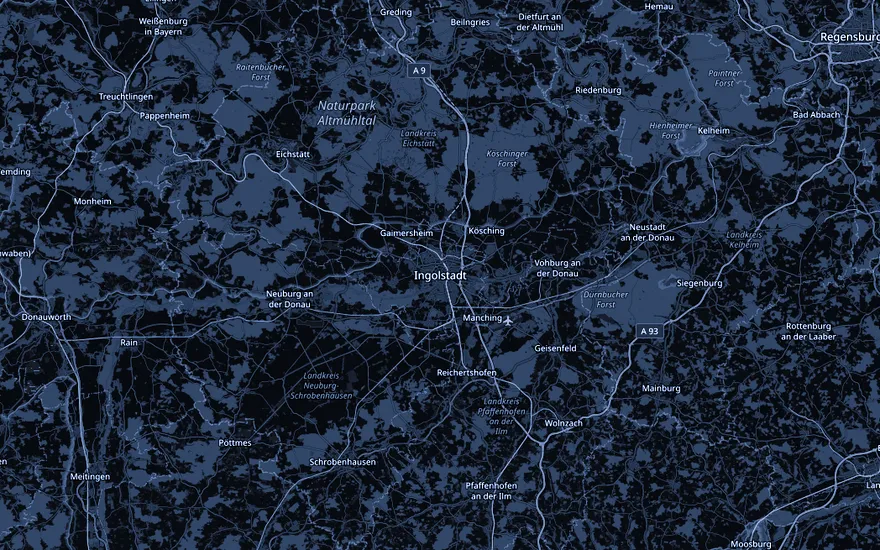
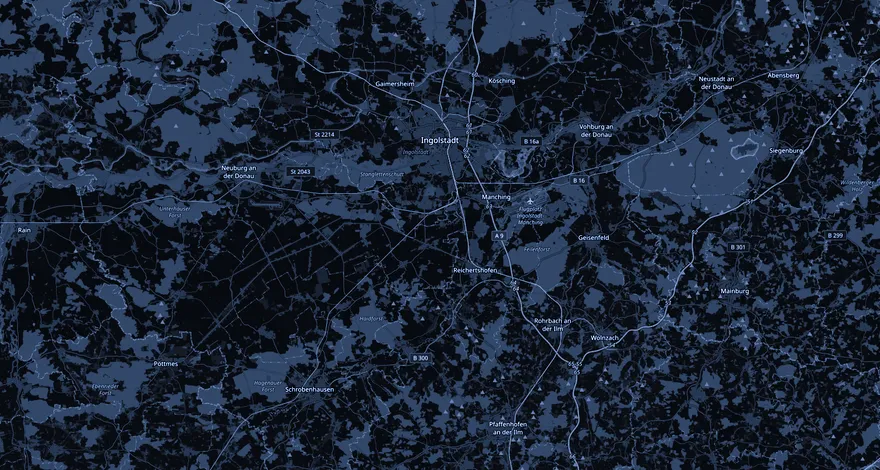
Karte enger gezoomt, Handy-Ansicht nachgezogen
Karte
- Bildmitte liegt nicht mehr auf Ingolstadt, sondern zwischen dem
  noerdlichsten und dem suedlichsten Ort. Auf Ingolstadt zentriert
  blieb oben leeres Land stehen, waehrend Pfaffenhofen unten
  herausfiel.
- Massstab von 120 auf 90 Meter je Bildpunkt, Kacheln eine Zoomstufe
  feiner. Zusammen etwa ein Drittel naeher dran, und die Zeichnung
  bleibt auf Displays mit doppelter Pixeldichte scharf.
- Die Orte tragen jetzt eine eigene Beschriftung. Die Namen der
  Kacheln sind bei dieser Anzeigegroesse zu klein zum Lesen.
- Bildhoehe von 550 auf 470, Ringe und Ortsliste unter der Karte sind
  entfallen. Die Kachel ist damit 113 px flacher, das Portrait
  darueber waechst von 189 auf 301 px. Beide Spalten enden weiterhin
  auf derselben Linie.

Handy
- Hero: Der Ausschnitt wird vom rechten Bildrand her genommen. Mittig
  beschnitten war nur das Heck des Fahrzeugs zu sehen, eingedrueckte
  Front und Warndreieck fielen heraus.
- Ueber mich: Text steht vor den Bildern, auch im Markup. Damit stimmt
  die Lesereihenfolge fuer Auge und Vorlesewerkzeug ueberein. Ab der
  zweispaltigen Ansicht rueckt die Bildspalte wieder nach links.
- FAQ: Die Kachel mit WhatsApp und Rufnummer entfaellt auf schmalen
  Displays. Dort stand sie unmittelbar vor dem Kontaktbereich, der
  dieselben beiden Schaltflaechen noch einmal zeigt.

Lighthouse Desktop 100/100/100/100, Mobil 95/100/100/100, LCP 2,7 s.

Claude-Session: https://claude.ai/code/session_013AG4ywUM6t3TjauUzabBkA

diff --git a/src/data/site.ts b/src/data/site.ts
@@ -43,6 +43,8 @@ export interface Place {
   readonly name: string;
   readonly lat: number;
   readonly lon: number;
+  /** Kurzform fuer die Karte, wo lange Namen ueber den Rand laufen. */
+  readonly short?: string;
 }
 
 /* ------------------------------------------------------------------
@@ -77,13 +79,15 @@ export const company = {
   city: 'Ingolstadt' as string | null,
   region: 'Ingolstadt und Umgebung' as string | null,
   radiusKm: 50,
+  /** Standort auf der Karte im Abschnitt "Ueber mich". */
+  coords: { lat: 48.763, lon: 11.425 },
   places: [
     { name: 'Gaimersheim', lat: 48.7986, lon: 11.3702 },
     { name: 'Kösching', lat: 48.8423, lon: 11.5188 },
     { name: 'Großmehring', lat: 48.7831, lon: 11.5354 },
     { name: 'Manching', lat: 48.7171, lon: 11.4941 },
-    { name: 'Neuburg a. d. Donau', lat: 48.7456, lon: 11.188 },
-    { name: 'Pfaffenhofen a. d. Ilm', lat: 48.5297, lon: 11.5085 },
+    { name: 'Neuburg a. d. Donau', lat: 48.7456, lon: 11.188, short: 'Neuburg' },
+    { name: 'Pfaffenhofen a. d. Ilm', lat: 48.5297, lon: 11.5085, short: 'Pfaffenhofen' },
   ] as readonly Place[],
 
   /** TODO(Kunde): Ladungsfaehige Anschrift fuer das Impressum. */
